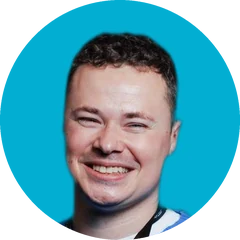
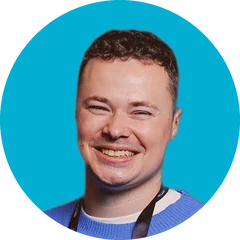
init 5

diff --git a/index.html b/index.html
@@ -59,22 +59,22 @@
     <button class="carousel-arrow prev" aria-label="Предыдущие спикеры"><svg viewBox="0 0 24 24" aria-hidden="true"><path d="M14.5 6l-6 6 6 6"/></svg></button>
     <div class="carousel-track" id="track">
       <article class="speaker-card">
-        <img src="assets/img/speaker-perevalov.webp" alt="Станислав Перевалов" width="888" height="676" loading="lazy">
+        <img src="assets/img/speaker-perevalov.webp" alt="Станислав Перевалов" width="888" height="541" loading="lazy">
         <h3>Станислав Перевалов</h3>
         <p>Агентное предпринимательство</p>
       </article>
       <article class="speaker-card">
-        <img src="assets/img/speaker-tazeev.webp" alt="" width="888" height="676" loading="lazy">
+        <img src="assets/img/speaker-tazeev.webp" alt="Динар Тазеев" width="888" height="541" loading="lazy">
         <h3>Динар Тазеев</h3>
         <p>Агентное предпринимательство</p>
       </article>
       <article class="speaker-card">
-        <img src="assets/img/speaker-novotarsky.webp" alt="Михаил Новотарский" width="888" height="676" loading="lazy">
+        <img src="assets/img/speaker-novotarsky.webp" alt="Михаил Новотарский" width="888" height="541" loading="lazy">
         <h3>Михаил Новотарский</h3>
         <p>Ошибки будущего</p>
       </article>
       <article class="speaker-card">
-        <img src="assets/img/speaker-vlasov.webp" alt="Андрей Власов" width="888" height="676" loading="lazy">
+        <img src="assets/img/speaker-vlasov.webp" alt="Андрей Власов" width="888" height="541" loading="lazy">
         <h3>Андрей Власов</h3>
         <p>Ошибки будущего</p>
       </article>

diff --git a/README.md b/README.md
@@ -10,8 +10,8 @@
 | Шапка | меню поверх первого экрана | логотип `img/sber-185.svg`; «О митапе», «Спикеры», «Программа», FAQ |
 | Первый экран | баннер на всю ширину | фон `img/hero-desktop.webp` (1920×1080) и `img/hero-mobile.webp` (768×1080, тёмная середина KV с лентами справа, чтобы лобстер не терялся); Lottie `lottie/lobster-kv.json` у кнопки регистрации; пилюли картинками `img/chips/hashtag.svg`, `date.svg`, `city.svg` (высота 44 на десктопе, 32 на телефоне; рядом PNG вдвое крупнее, если блок не примет SVG); название, подзаголовок и кнопка набраны текстом |
 | О митапе | заголовок слева, три абзаца справа | текст из `index.html` |
-| Спикеры | карусель карточек | `img/speaker-*.webp` (888×676, как картинки слайдера эталона; фон #02AED2, человек по грудь, над головой воздух, поэтому слайдер не режет лицо при любой рамке); под именем название доклада |
-| Программа | вкладки и строки | вкладки «Большой зал» и «Малый зал»; у докладов круглые фото `img/speaker-*-circle.webp` |
+| Спикеры | карусель карточек | `img/speaker-*.webp` 888×541: окно фото в слайдере sberlive примерно 1,64:1, кадр в той же пропорции, поэтому слайдер его не обрезает (в более узком окне срежется только фон по бокам); фон #02AED2, человек по грудь с плечами целиком, головы одного размера, цвет кожи выровнен по четырём фото; под именем название доклада |
+| Программа | вкладки и строки | вкладки «Большой зал» и «Малый зал»; у докладов круглые фото `img/speaker-*-circle.webp`: кадр как на слайдере, голова и плечи, масштаб по размеру лица, глаза у всех на одной высоте |
 | Кнопка | «Скачать презентации спикеров» | «Зарегистрироваться», та же градиентная пилюля во всю ширину |
 | Тизеры докладов | «Как это было»: VK Video | ссылка на склеенный ролик в VK Video; пока ссылки нет, стоит обложка `img/video-poster.webp` |
 | FAQ | светлые карточки с плюсом | шесть вопросов из `index.html` |
@@ -40,6 +40,11 @@
 
 - Ссылка на регистрацию: две кнопки «Зарегистрироваться», атрибут `href`.
 - Ролик в VK Video: атрибут `data-vk-src` у блока видео, адрес вида `https://vkvideo.ru/video_ext.php?oid=…&id=…&hash=…`.
-- Фото Динара Тазеева: заменить `img/speaker-tazeev.webp` и `img/speaker-tazeev-circle.webp`. Карточку на бирюзовом
-  фоне собирают скрипты в `work/landing-v2/speakers/`: `cut.py` вырезает фон, `compose_slider.py` ставит человека в кадр 888×676
-  и делает круг для программы (замер головы вписать в `PEOPLE`).
+- Новое фото спикера: скрипты в `work/landing-v2/speakers/`. `cut.py` вырезает фон. Если фотограф обрезал плечи краем
+  снимка или в кадре лишние предметы, `outpaint.py build` и `outpaint.py run <имя>` достраивают одежду моделью
+  GPT-6.1 Sol через Codex. `compose_slider.py` собирает кадр 888×541 и круг для программы: голова и шея остаются
+  пикселями оригинала, ниже шеи плавно переходят в достроенную одежду. В `PEOPLE` обоих скриптов вписать верх головы,
+  ширину головы и центр головы по x.
+  Если спикер снят вполоборота, его перерисовывает GPT в диалоге «Редактирование фото спикера» лицом в камеру
+  (задание и образцы постановки собирает `regen_tazeev.py`), кадр ставится целиком по замеру головы (`FRONT`
+  в `compose_slider.py`).
